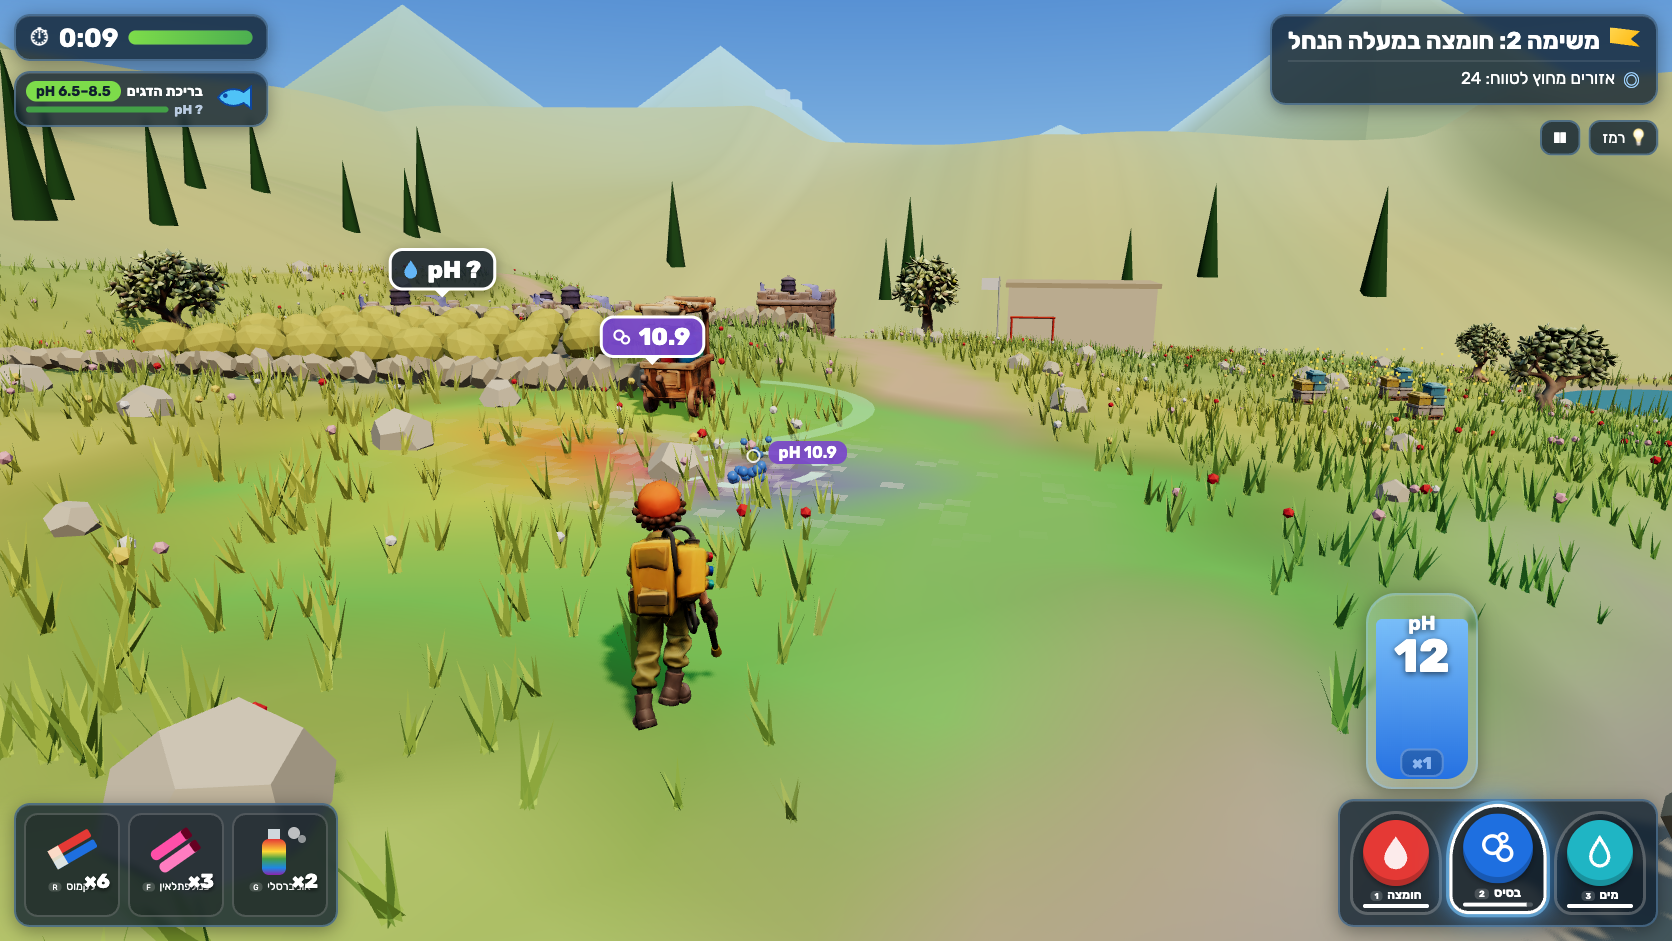
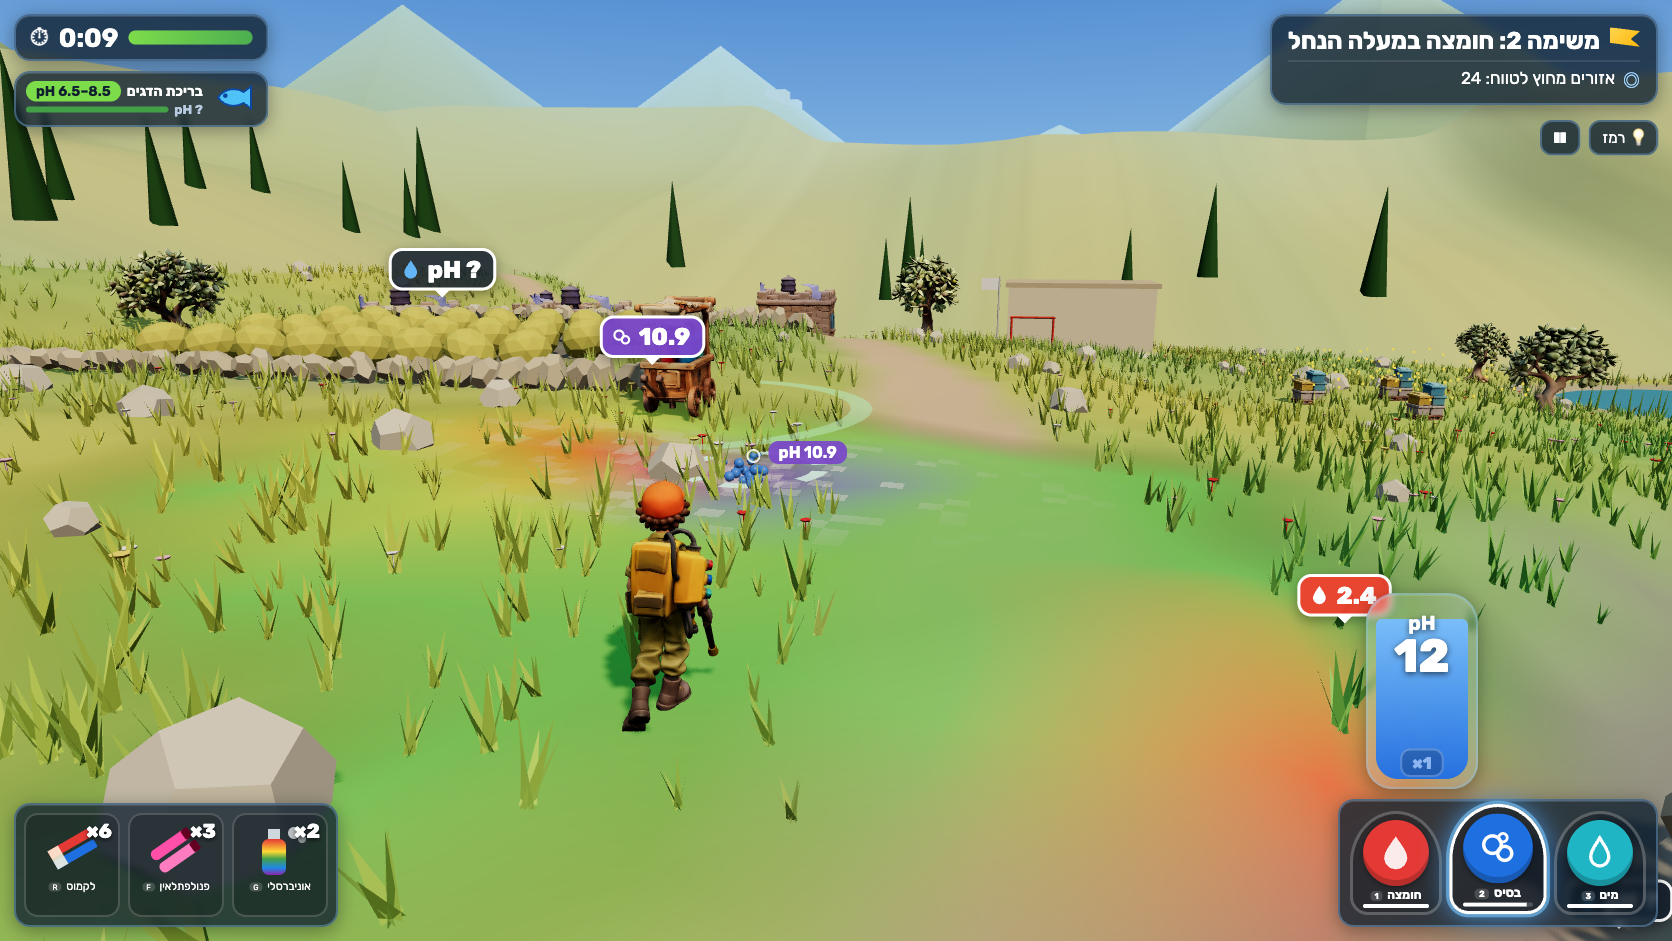
Recaptured gameplay, visual review doc, stronger unknown-ground wash

diff --git a/src/render/world.ts b/src/render/world.ts
@@ -53,7 +53,7 @@ vec4 ovC;`,
   ovC = texture2D(uOverlay, uv);
   vec4 st = texture2D(uState, uv);
   float g = dot(diffuseColor.rgb, vec3(0.3, 0.59, 0.11));
-  diffuseColor.rgb = mix(diffuseColor.rgb, vec3(g) * vec3(0.78, 0.78, 0.76), st.r * 0.85);
+  diffuseColor.rgb = mix(diffuseColor.rgb, vec3(g) * vec3(0.62, 0.62, 0.6), st.r * 0.9);
   diffuseColor.rgb = mix(diffuseColor.rgb, ovC.rgb, ovC.a);
   float n = fract(sin(dot(floor(vWPos.xz * 3.0), vec2(12.9898, 78.233))) * 43758.5453);
   diffuseColor.rgb = mix(diffuseColor.rgb, vec3(0.97, 0.97, 0.94), step(0.78, n) * st.g * 0.85);
@@ -707,7 +707,7 @@ export class World {
       }
     };
     const soilSpills = game.spill.filter((c) => g.kind[c] !== Kind.Creek && g.kind[c] !== Kind.Blueberry && g.kind[c] !== Kind.Pond);
-    if (id === 'm1-lemon') puddle(soilSpills, 0xf2d64b, 0.55);
+    if (id === 'm1-lemon') puddle(soilSpills, 0xf5d000, 0.72);
     else if (id === 'm2-creek' || id === 'm6-night') puddle(soilSpills, 0xc8d36a, 0.45);
     else if (id === 'm4-blueberry') puddle(soilSpills.filter((c) => g.kind[c] === Kind.School), 0xb3e5fc, 0.5);
     if (id === 'm1-lemon') {

diff --git a/docs/VISUAL_REVIEW.md b/docs/VISUAL_REVIEW.md
@@ -1,0 +1,39 @@
+# Visual review — mockups vs real gameplay
+
+Targets: ChatGPT (gpt-image) mockups in [`visual-targets/`](visual-targets/) (prompts in [`PROMPTS.md`](visual-targets/PROMPTS.md)). Actual: real captures in [`captures/`](captures/), taken by [`scripts/capture.mjs`](../scripts/capture.mjs) at the mockups' 1672×941 viewport through real keyboard/mouse input (Playwright Chromium, headed, `?autopause=0`, deterministic `advanceTime`). Mockups are design targets, not evidence; their Hebrew text and pH numbers are often wrong, so only layout and feel were copied.
+
+| Target | Actual |
+|---|---|
+| ![](visual-targets/01-first-30s.png) | ![](captures/01-first-30s.png) |
+| ![](visual-targets/02-core-spray.png) | ![](captures/02-core-spray.png) |
+| ![](visual-targets/03-overshoot-fail.png) | ![](captures/03-overshoot.png) |
+| ![](visual-targets/04-night-transfer.png) | ![](captures/04-night.png) |
+
+Extra captures: [title](captures/00-title.png), [phenolphthalein in mission 3](captures/05-phenol.png), [phone width 390×844](captures/06-mobile.png).
+
+## Matches
+
+- **Camera:** over-the-shoulder chase camera, ranger in the lower-left third, valley and target patch ahead, reticle ring on the ground at the spray landing point (all four).
+- **Ranger silhouette:** the Tripo ranger was made image-to-3D from the mockup character (olive uniform, orange cap, yellow tank with red/blue/cyan knobs) and is rigged (idle/run) — it reads the same from behind.
+- **HUD hierarchy (RTL):** timer + bar top-left with the assets list under it (icon, band chip, live pH or "pH ?", health bar); mission title + objective top-right with flag and target icon; capsule tank with the selected liquid's pH bottom-right above three round valve buttons (red drop, blue bubbles, cyan drop) with the selected one glowing; gadget belt bottom-left (litmus pair, phenolphthalein tubes, universal mist, + antacid when given). Rubik font throughout, numbers in LTR.
+- **Feedback:** world badges with icon + number in the universal-indicator colour (drop = acid, bubbles = base, leaf = neutral); the ground wash goes red/orange → green → blue/purple as the number changes; steam where neutralization happens; a solid arcing jet plus droplets; purple badge and "יותר מדי בסיס!" toast with a boing on overshoot.
+- **Night:** dark blue valley, moon, the indicator wash and badges glow, fireflies, a head-lamp pool around the ranger.
+
+## Differences (honest)
+
+1. **Art fidelity:** the mockups are painterly renders; the game is a stylized low-poly scene (instanced grass blades, procedural walls and rocks, Tripo props). Lighting and colour palette are matched, detail density is not.
+2. **The patch outline** in mockup 3 (a glowing purple border around the overshoot zone) is not drawn; the wash fades softly at cell edges instead.
+3. **Grey dead grass:** unknown/stressed ground is desaturated by the shader, but the wilted-grass look of mockups 1–3 is subtler in the game, especially on the dirt path in mission 1 (the lemon puddle decal now carries the cue).
+4. **Assets list in mission 1:** the mockup shows four assets; mission 1 has none to protect, so the panel is hidden. Other missions show 1–4 assets with real bands (the mockup bands were invented).
+5. **Tank colour:** the game colours the tank by the selected liquid (red acid / blue base / cyan water) and shows its pH number; mockup 4's pink "pH 2" tank was a science error (pink is phenolphthalein's base colour) and was not copied.
+6. **Spray pose:** no Tripo spray clip exists; the arms are aimed procedurally, so the pose is stiffer than the mockup's crouch.
+7. **Badge density:** to keep the screen readable the game shows at most 8 world badges (and 3 "pH ?" markers), nearest first; mockups show 3–4.
+
+## Fixed after comparing
+
+- Camera moved lower and further back with a right-shoulder offset; aim ray below screen centre (was a top-down view with the ranger cut off).
+- Overlay texture treated as sRGB and wash opacity raised (washes looked pale).
+- Solid jet added to the droplet stream (the stream looked like a dotted line).
+- Cone grass replaced by blade tufts; gem-like flowers replaced by stemmed blooms; terrace walls lowered (they blocked the camera in mission 3); olive model brightened.
+- Night head-lamp dimmed and cooled, indicator glow raised, fireflies added.
+- Gadget counts moved so they no longer overlap labels; badges de-duplicated on screen.
